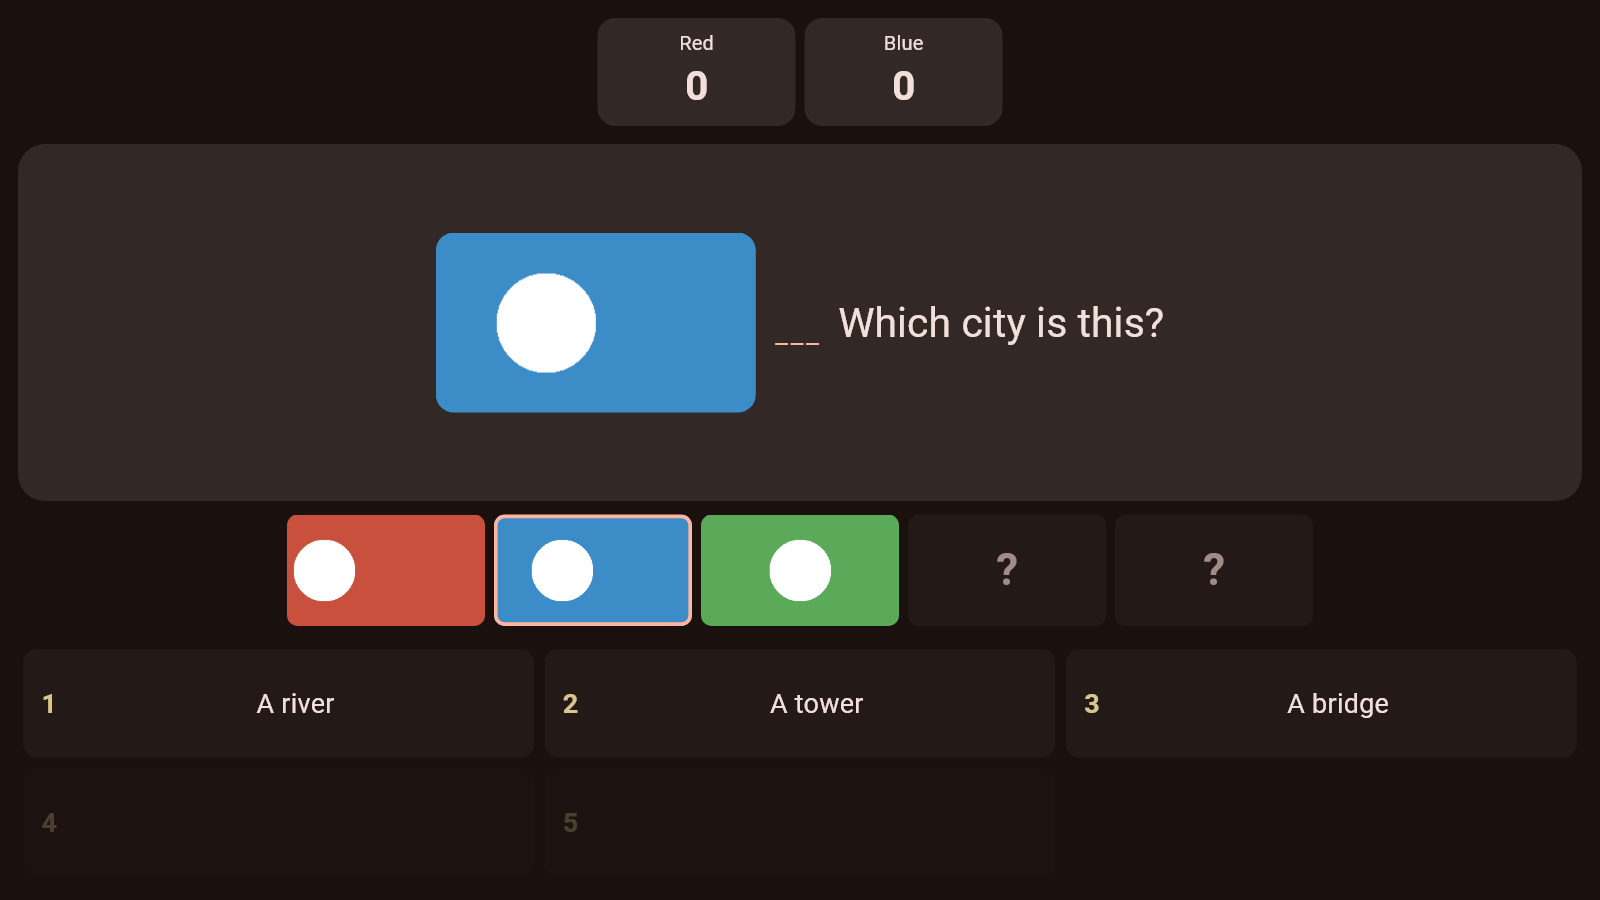
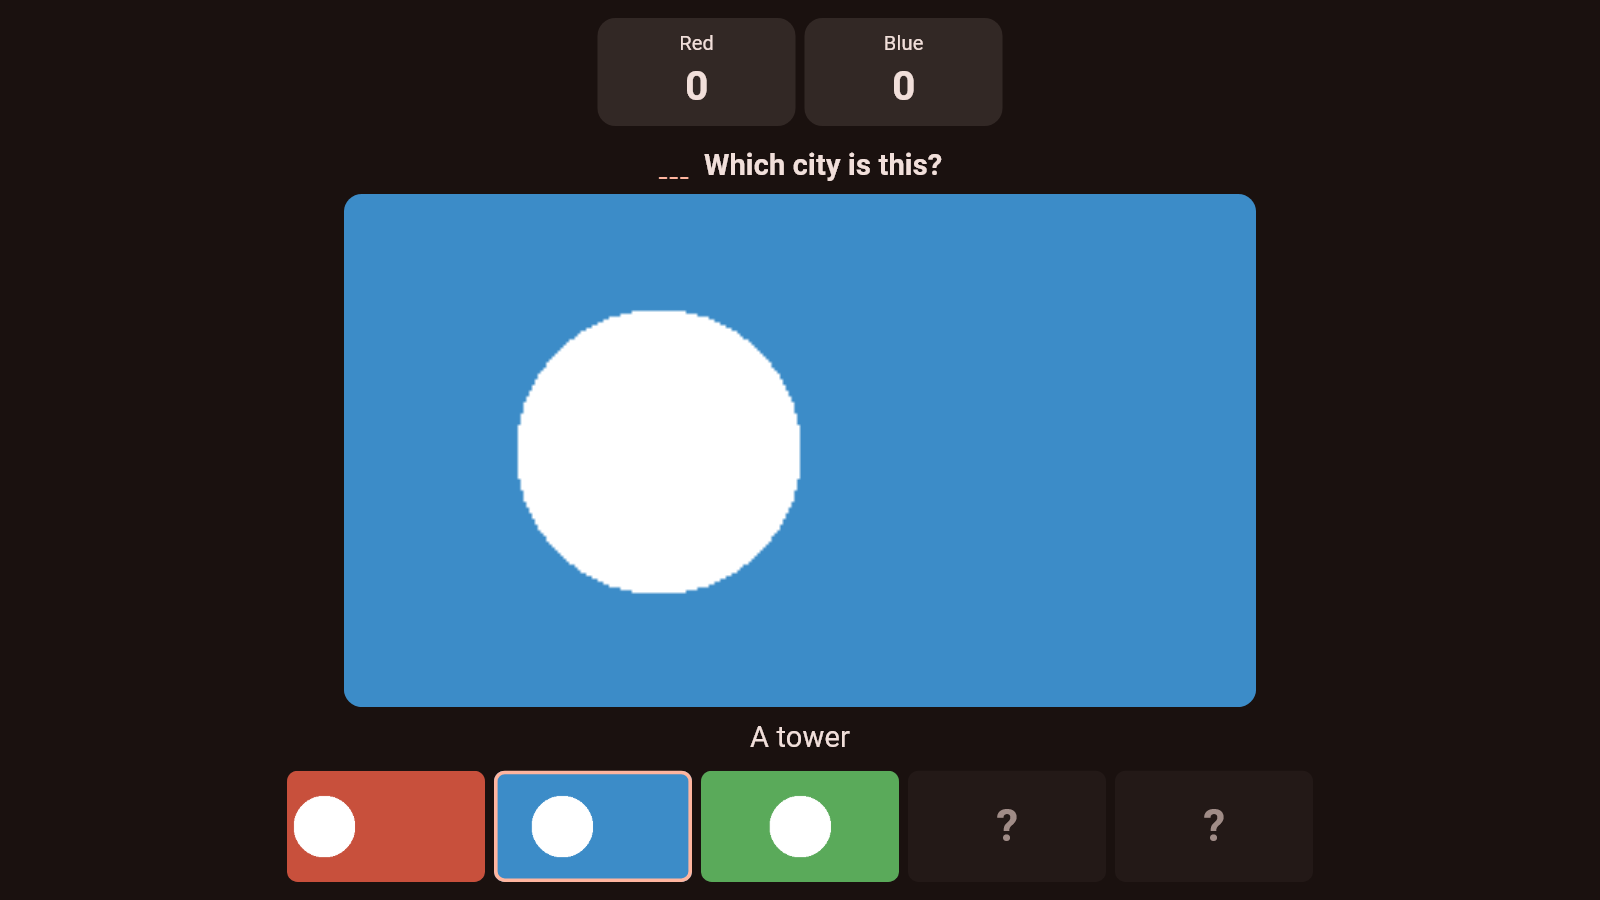
Progressing reveal: the newest picture nearly full screen, hints in a grid that fits them; iOS on its own Firebase app
- With pictures, the newest one shown fills the screen, the question in
  one line above, its hint below and the strip at the bottom.
- With hints only, the question stays small and every hint gets a tile in
  a grid of up to four columns; long hints shrink instead of being cut.
- firebase_options.dart uses the iOS app registered for
  de.equirinya.quizStudio (the old one was for de.equirinya.quizShow).

diff --git a/lib/features/session/pages/presenter_view.dart b/lib/features/session/pages/presenter_view.dart
@@ -1,4 +1,5 @@
 import 'dart:io';
+import 'dart:math';
 
 import 'package:flutter/cupertino.dart';
 import 'package:flutter/material.dart';
@@ -289,6 +290,9 @@ class QuestionDisplay extends StatelessWidget {
     if (question.type == QuestionType.rapidFire) {
       return RapidFireDisplay(state: state, question: question, unit: unit, file: _file);
     }
+    if (question.type == QuestionType.progressingReveal && round == null) {
+      return _RevealDisplay(state: state, question: question, unit: unit, file: _file);
+    }
     final strip =
         question.pictureStrip && round == null && question.type == QuestionType.progressingReveal && question.hasInformationImages;
     return Column(
@@ -450,6 +454,188 @@ class QuestionDisplay extends StatelessWidget {
     final value = question.percentages.elementAtOrNull(index) ?? 0;
     final text = value % 1 == 0 ? value.toInt().toString() : value.toStringAsFixed(1);
     return question.absoluteValues ? text : "$text%";
+  }
+}
+
+/// Progressing reveal on the big screen. With pictures, the newest one shown
+/// takes nearly the whole screen, the question above it in one line and the
+/// strip of all pictures below. With hints only, the question stays small and
+/// the hints get the room, in a grid that fits them all.
+class _RevealDisplay extends StatelessWidget {
+  const _RevealDisplay({required this.state, required this.question, required this.unit, required this.file});
+
+  final SessionState state;
+  final Question question;
+  final double unit;
+  final File? Function(String? name) file;
+
+  @override
+  Widget build(BuildContext context) {
+    final scheme = Theme.of(context).colorScheme;
+    final infos = question.information;
+    final shown = state.revealed.clamp(0, infos.length);
+    final focus = state.imageFocus;
+    final focused = focus > 0 ? file(question.informationImages.elementAtOrNull(focus - 1)) : null;
+    final caption = focus > 0 ? (infos.elementAtOrNull(focus - 1) ?? '').trim() : '';
+    final pictures = question.hasInformationImages;
+    final strip = pictures && question.pictureStrip;
+    final mainImage = file(question.image);
+
+    // The question, with the bars that dance while its sound plays.
+    Widget questionText(double size, int lines) => Row(
+          mainAxisSize: MainAxisSize.min,
+          children: [
+            if (question.hasMusic)
+              Padding(
+                padding: EdgeInsets.only(right: size * 0.5),
+                child: MiniMusicVisualizer(
+                  animate: state.media == MediaPlayback.playing,
+                  color: scheme.primary,
+                  width: size * 0.3,
+                  height: size,
+                  radius: size * 0.08,
+                ),
+              ),
+            Flexible(
+              child: Text(
+                question.text,
+                textAlign: TextAlign.center,
+                maxLines: lines,
+                overflow: TextOverflow.ellipsis,
+                style: TextStyle(fontSize: size, fontWeight: FontWeight.w600),
+              ),
+            ),
+          ],
+        );
+
+    final picturesStrip = strip
+        ? Padding(
+            padding: EdgeInsets.only(top: unit * 1.5),
+            child: _PictureStrip(
+              unit: unit,
+              files: [for (final name in question.informationImages) file(name)],
+              names: question.informationImages,
+              revealed: state.revealed,
+              focus: focus,
+            ),
+          )
+        : const SizedBox();
+
+    // The newest picture, nearly full screen.
+    if (focused != null) {
+      return Column(
+        children: [
+          questionText(unit * 3.2, 1),
+          SizedBox(height: unit),
+          Expanded(
+            child: ClipRRect(
+              borderRadius: BorderRadius.circular(unit * 2),
+              child: Image.file(focused, fit: BoxFit.contain),
+            ),
+          ),
+          if (caption.isNotEmpty)
+            Padding(
+              padding: EdgeInsets.only(top: unit),
+              child: Text(caption, textAlign: TextAlign.center, maxLines: 2, overflow: TextOverflow.ellipsis, style: TextStyle(fontSize: unit * 3.2)),
+            ),
+          picturesStrip,
+        ],
+      );
+    }
+
+    final texts = [for (final info in infos) info.trim()];
+    final hasTexts = texts.any((t) => t.isNotEmpty);
+    // About as many columns as rows, never more than four: hints stay wide
+    // enough to read in two or three lines.
+    final int columns = texts.isEmpty ? 1 : sqrt(texts.length).ceil().clamp(1, 4).toInt();
+    final rows = texts.isEmpty ? 1 : (texts.length / columns).ceil();
+    return Column(
+      children: [
+        if (question.description != null)
+          Padding(
+            padding: EdgeInsets.only(bottom: unit),
+            child: Chip(label: Text(question.description!, style: TextStyle(fontSize: unit * 2.4))),
+          ),
+        Flexible(
+          flex: 2,
+          child: Container(
+            width: double.infinity,
+            padding: EdgeInsets.symmetric(horizontal: unit * 3, vertical: unit * 1.5),
+            decoration: BoxDecoration(color: scheme.surfaceContainerHigh, borderRadius: BorderRadius.circular(unit * 3)),
+            child: Row(
+              mainAxisAlignment: MainAxisAlignment.center,
+              children: [
+                if (mainImage != null)
+                  Flexible(
+                    child: Padding(
+                      padding: EdgeInsets.only(right: unit * 2),
+                      child: ClipRRect(borderRadius: BorderRadius.circular(unit * 2), child: Image.file(mainImage, fit: BoxFit.contain)),
+                    ),
+                  ),
+                Flexible(flex: 2, child: Center(child: questionText(unit * 4, 3))),
+              ],
+            ),
+          ),
+        ),
+        SizedBox(height: unit * 1.5),
+        if (hasTexts)
+          Expanded(
+            flex: 5,
+            child: Column(
+              children: [
+                for (var r = 0; r < rows; r++)
+                  Expanded(
+                    child: Row(
+                      crossAxisAlignment: CrossAxisAlignment.stretch,
+                      children: [
+                        for (var c = 0; c < columns; c++)
+                          Expanded(
+                            child: Builder(builder: (context) {
+                              final i = r * columns + c;
+                              if (i >= texts.length) return const SizedBox();
+                              final visible = i < shown;
+                              return AnimatedOpacity(
+                                duration: const Duration(milliseconds: 300),
+                                opacity: visible ? 1 : 0.3,
+                                child: Container(
+                                  margin: EdgeInsets.all(unit * 0.6),
+                                  padding: EdgeInsets.symmetric(horizontal: unit * 2, vertical: unit),
+                                  decoration: BoxDecoration(color: scheme.surfaceContainerLow, borderRadius: BorderRadius.circular(unit * 1.5)),
+                                  child: Row(
+                                    children: [
+                                      Text("${i + 1}", style: TextStyle(fontSize: unit * 2.6, fontWeight: FontWeight.bold, color: scheme.tertiary)),
+                                      SizedBox(width: unit * 1.5),
+                                      Expanded(
+                                        // Long hints shrink to fit rather than being cut off.
+                                        child: FittedBox(
+                                          fit: BoxFit.scaleDown,
+                                          child: ConstrainedBox(
+                                            constraints: BoxConstraints(maxWidth: unit * 160 / columns),
+                                            child: Text(
+                                              visible ? texts[i] : "",
+                                              textAlign: TextAlign.center,
+                                              style: TextStyle(fontSize: unit * 3.2, height: 1.2),
+                                            ),
+                                          ),
+                                        ),
+                                      ),
+                                    ],
+                                  ),
+                                ),
+                              );
+                            }),
+                          ),
+                      ],
+                    ),
+                  ),
+              ],
+            ),
+          )
+        else
+          const Spacer(),
+        picturesStrip,
+      ],
+    );
   }
 }
 

diff --git a/tool/screenshot_test.dart b/tool/screenshot_test.dart
@@ -1169,6 +1169,38 @@ void main() {
     await shot('presenter_picture_strip');
   });
 
+  testWidgets('presenter: progressing reveal with long hints', (tester) async {
+    final game = GameContent.assemble(
+      id: 'hints',
+      game: {'name': 'Hints'},
+      groups: {
+        'g': {'name': 'Round', 'categoryGroupType': 'category_wheel', 'categoryGroupIndex': 0},
+      },
+      categories: {
+        'c': {'name': 'People', 'categoryGroup': 'g', 'categoryIndex': 0, 'active': true},
+      },
+      questions: {
+        'c': {
+          'q': {
+            'type': 'progressingReveal',
+            'question': 'Who is it?',
+            'information': [
+              'Born in 1879 in Ulm, in the Kingdom of Württemberg',
+              'Worked at the patent office in Bern while writing his most famous papers',
+              'Won the Nobel Prize in Physics in 1921',
+              'Played the violin and loved sailing',
+              'Turned down the presidency of Israel in 1952',
+              'E = mc²',
+            ],
+            'pointsPlus': 500,
+          },
+        },
+      },
+    );
+    await screen(tester, const [OpenQuestion(QuestionRef('c', 'q')), Reveal(1), Reveal(1), Reveal(1), Reveal(1)], game: game);
+    await shot('presenter_reveal_hints');
+  });
+
   testWidgets('editor: question preview', (tester) async {
     tester.view.physicalSize = const Size(1100, 760);
     tester.view.devicePixelRatio = 1;

diff --git a/lib/firebase_options.dart b/lib/firebase_options.dart
@@ -59,17 +59,17 @@ class DefaultFirebaseOptions {
 
   static const FirebaseOptions ios = FirebaseOptions(
     apiKey: 'AIzaSyDEOONnBwVSGr6zWN2WrHDI-X3N_4T5boo',
-    appId: '1:640235060469:ios:4111228616e5d00a0019bc',
+    appId: '1:640235060469:ios:76734133b2787e490019bc',
     messagingSenderId: '640235060469',
     projectId: 'quiz-8541e',
     storageBucket: 'quiz-8541e.appspot.com',
-    iosClientId: '640235060469-huev8lhnrk75ijsqfguhdre1dm8ob920.apps.googleusercontent.com',
-    iosBundleId: 'de.equirinya.quizShow',
+    iosClientId: '640235060469-c5cqh10pu1uqh4mhc2k6arvul23q0p0u.apps.googleusercontent.com',
+    iosBundleId: 'de.equirinya.quizStudio',
   );
 
   static const FirebaseOptions macos = FirebaseOptions(
     apiKey: 'AIzaSyDEOONnBwVSGr6zWN2WrHDI-X3N_4T5boo',
-    appId: '1:640235060469:ios:4111228616e5d00a0019bc',
+    appId: '1:640235060469:ios:76734133b2787e490019bc',
     messagingSenderId: '640235060469',
     projectId: 'quiz-8541e',
     storageBucket: 'quiz-8541e.appspot.com',
